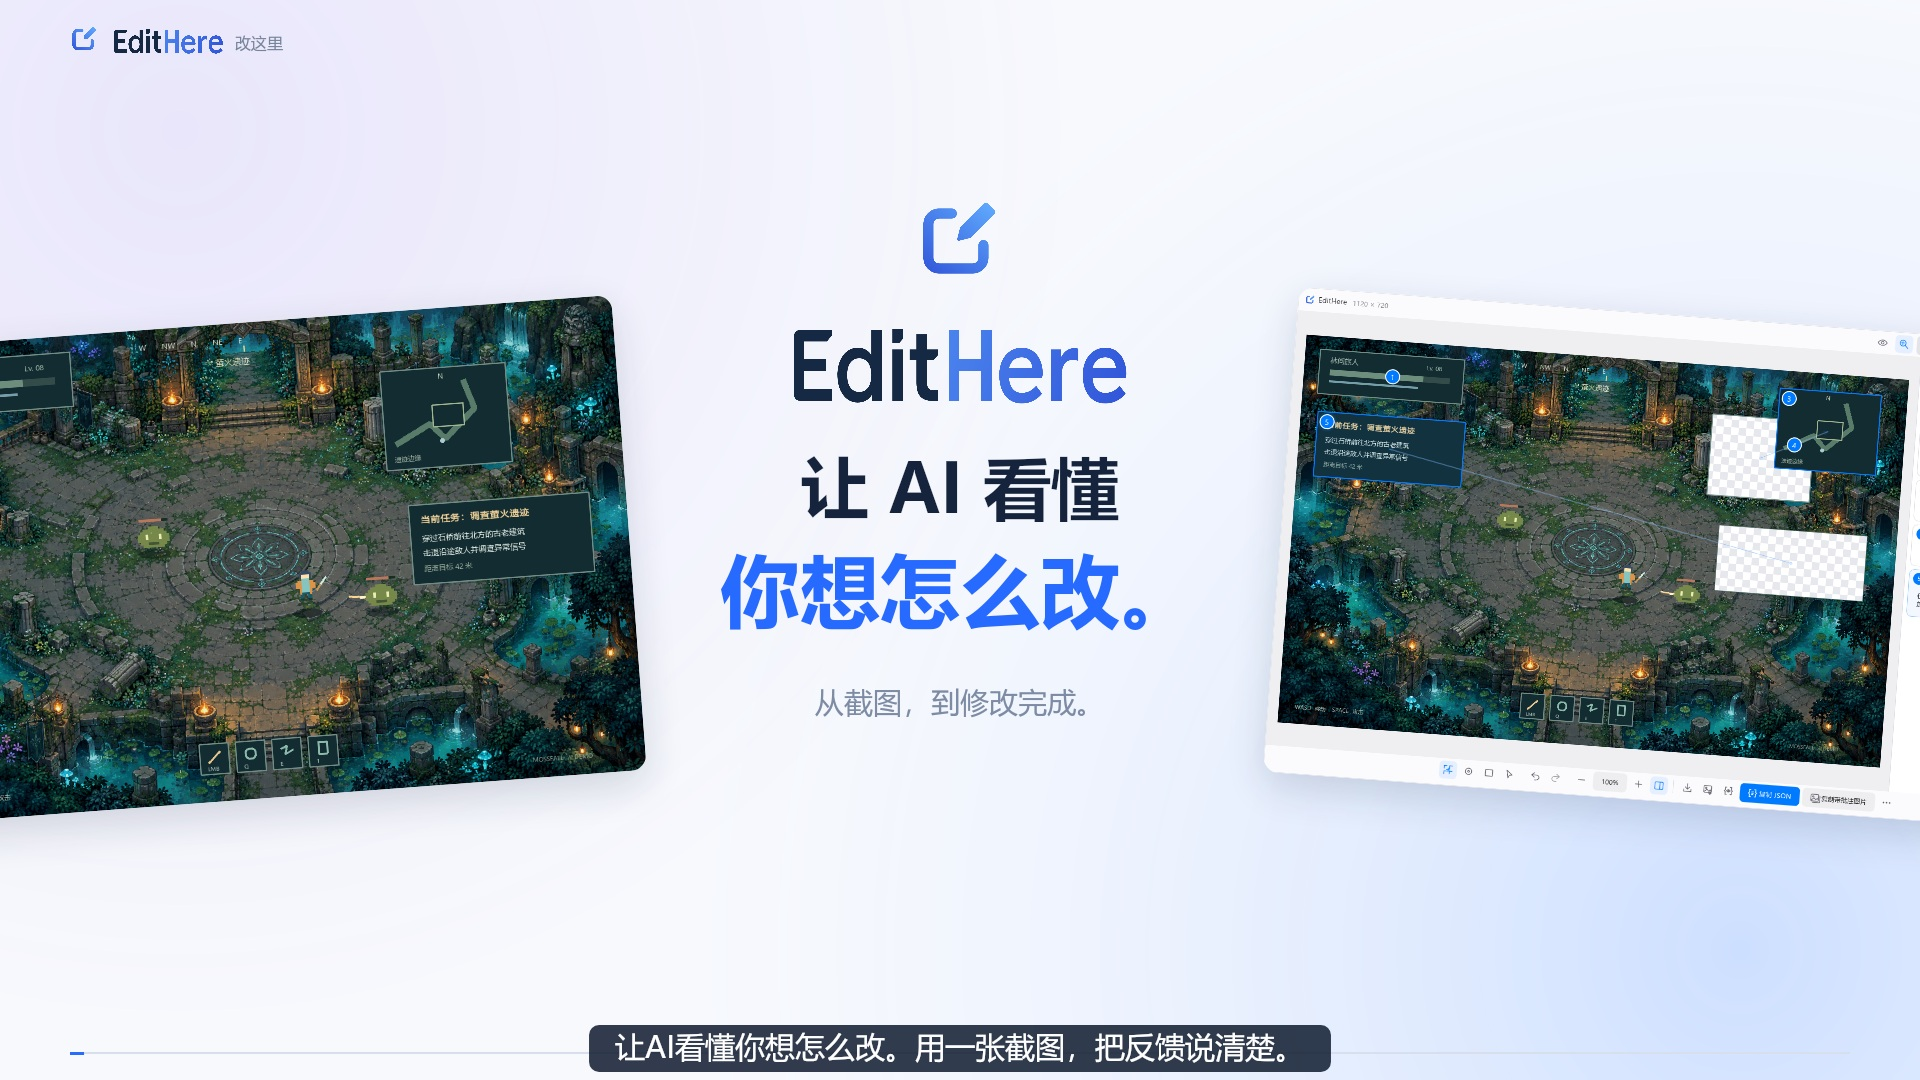
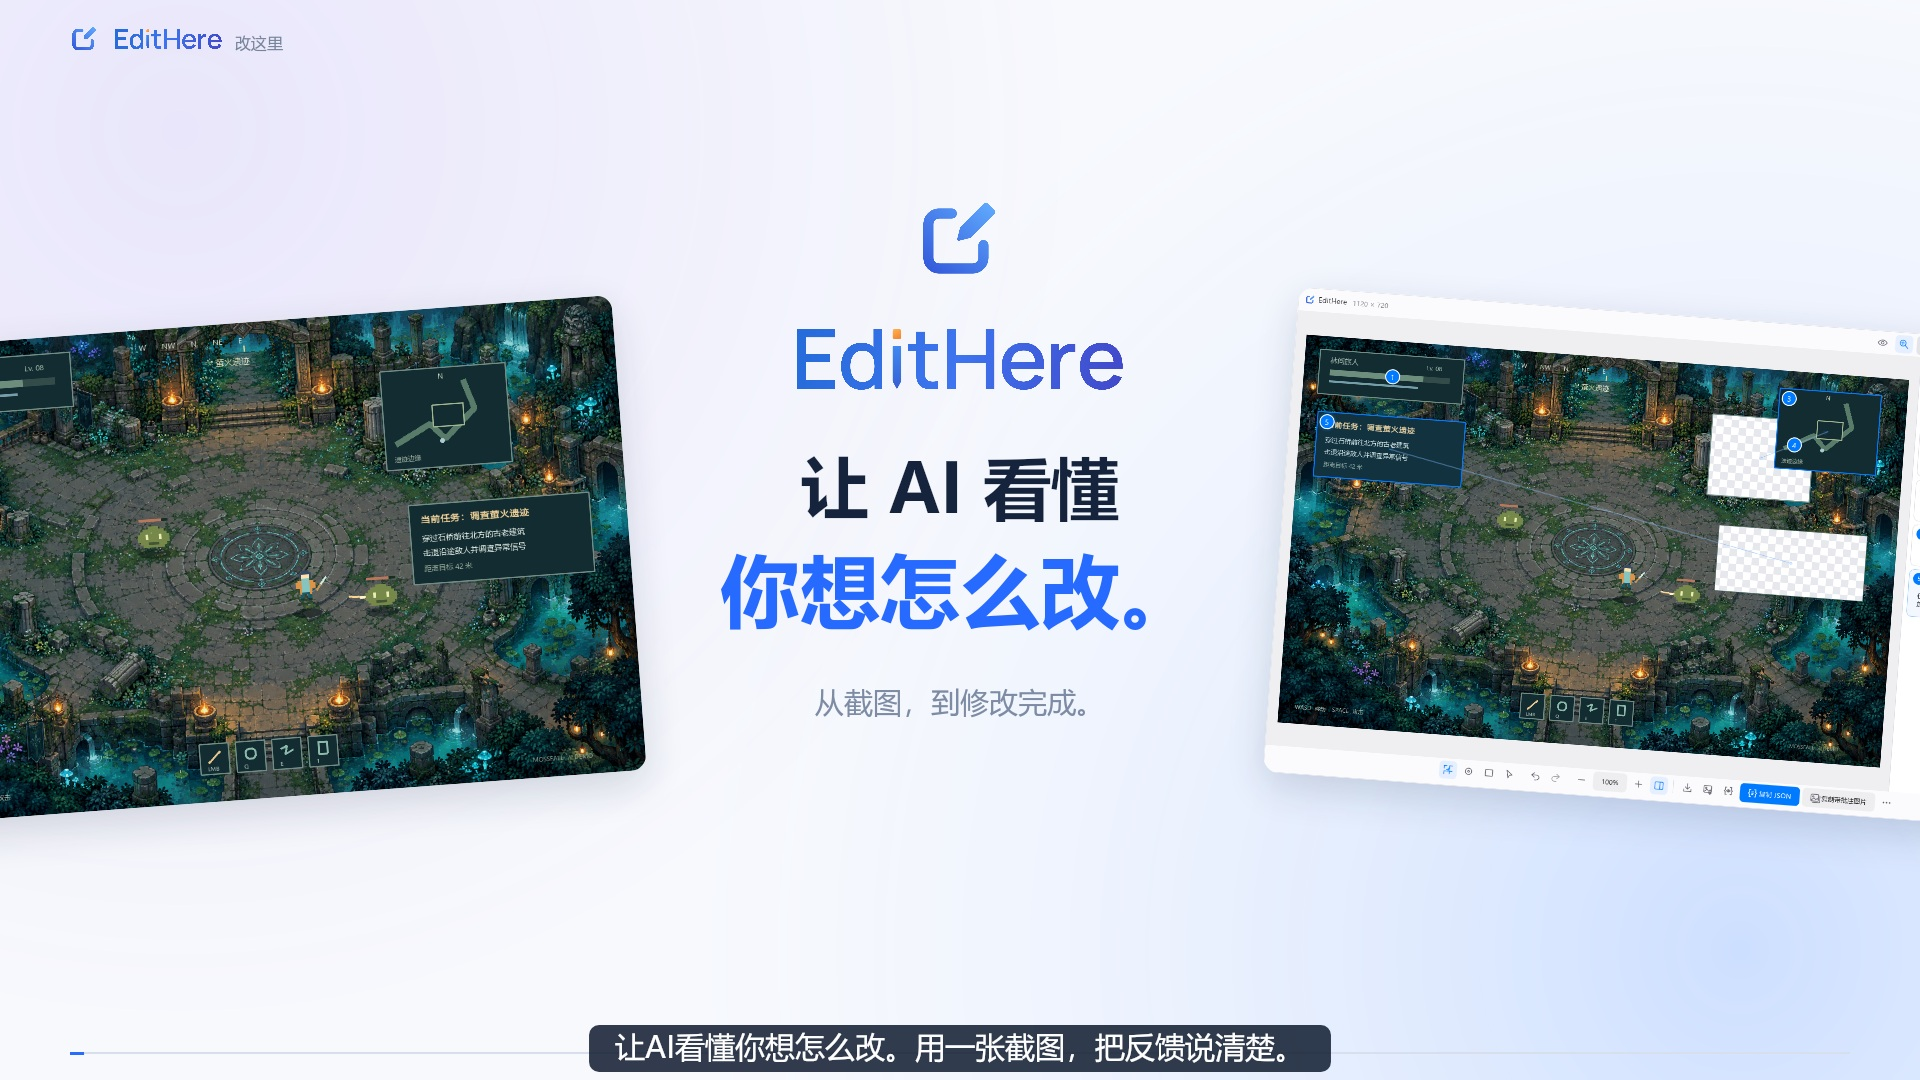
Finalize amber-cap branding and prepare release materials

Changed region(s): [[0.4062, 0.3056, 0.5938, 0.3972], [0.0625, 0.0306, 0.125, 0.0611]]

diff --git a/scripts/verify-refined-video.py b/scripts/verify-refined-video.py
@@ -1,12 +1,18 @@
 from pathlib import Path
-import hashlib, json, subprocess, sys
+import argparse, hashlib, json, subprocess, sys
 import cv2
 import numpy as np
 from PIL import Image, ImageDraw, ImageFont
-root, out = (Path(x).resolve() for x in sys.argv[1:3])
+parser = argparse.ArgumentParser(description='Verify the rendered introduction, web video and Agent chapter.')
+parser.add_argument('root', type=Path)
+parser.add_argument('output', type=Path)
+parser.add_argument('--variant', choices=['refined', 'A1'], default='refined')
+args = parser.parse_args()
+root, out = args.root.resolve(), args.output.resolve()
+variant = args.variant
 ff = root / '.cache/promo-video-deps/imageio_ffmpeg/binaries/ffmpeg-win-x86_64-v7.1.exe'
-files = ['EditHere-introduction-refined-1080p.mp4', 'EditHere-introduction-refined-web.mp4', 'EditHere-agent-chapter-refined-1080p.mp4']
-report = {'durationSeconds':246, 'agentStartsAt':183.1, 'wordmarks':'original SVG paths, no font dependency', 'music':'new original score with rebuilt clean narration', 'files':{}}
+files = [f'EditHere-introduction-{variant}-1080p.mp4', f'EditHere-introduction-{variant}-web.mp4', f'EditHere-agent-chapter-{variant}-1080p.mp4']
+report = {'durationSeconds':246, 'agentStartsAt':183.1, 'wordmarks':('A1 amber-cap wordmark based on Manrope outlines' if variant=='A1' else 'Previous outlined wordmark'), 'music':'Existing original score and narration mix reused unchanged', 'files':{}}
 for name in files:
     p=out/name
     result=subprocess.run([str(ff),'-v','error','-i',str(p),'-f','null','-'],capture_output=True,text=True)
@@ -32,8 +38,8 @@ for t in [17.5,34.0,133.5,206.0]:
     assert error<3.0,(t,error)
     report['nativeFootageChecks'].append({'time':t,'meanPixelDifference':round(error,3)})
 cap.release();old.release()
-report['audio']=json.loads((out/'EditHere-introduction-refined-1080p.audio-verification.json').read_text(encoding='utf8'))
+report['audio']=json.loads((out/f'EditHere-introduction-{variant}-1080p.audio-verification.json').read_text(encoding='utf8'))
 report['mix']=json.loads((out/'audio-verification.json').read_text(encoding='utf8'))
 (out/'verification.json').write_text(json.dumps(report,ensure_ascii=False,indent=2),encoding='utf8')
-(out/'SHA256SUMS-refined.txt').write_text(''.join(v['sha256']+'  '+k+'\n' for k,v in report['files'].items()),encoding='utf8')
+(out/f'SHA256SUMS-{variant}.txt').write_text(''.join(v['sha256']+'  '+k+'\n' for k,v in report['files'].items()),encoding='utf8')
 print(json.dumps({k:{'bytes':v['bytes'],'sha256':v['sha256']} for k,v in report['files'].items()},ensure_ascii=False))

diff --git a/scripts/mix-demo-audio.py b/scripts/mix-demo-audio.py
@@ -21,7 +21,7 @@ import numpy as np
 from scipy.ndimage import maximum_filter1d, gaussian_filter1d
 
 ROOT = Path(__file__).resolve().parents[1]
-DEFAULT_MEDIA = Path('C:/Users/InGing/.codex/visualizations/2026/09/12/01a0955e-ff46-76d0-be3b-61dab9a71caa')
+DEFAULT_MEDIA = ROOT / 'artifacts'
 SR = 48000
 DURATION = 246.0
 

diff --git a/docs/USER-GUIDE.md b/docs/USER-GUIDE.md
@@ -6,13 +6,15 @@
 
 ## 运行
 
-首次更名升级请从[发行页](https://github.com/Inginnng/EditHere/releases/tag/v0.8.20)直接下载新包，先从托盘退出旧版。原设置和 `.helpdesign` 项目继续兼容。如果开机启动提示旧路径，保持自启勾选并保存即可刷新，无需先关再开。在新程序中保存一次项目会更新原 `.helpdesign` 文件关联。旧版的自动更新检查可能不识别改名后的地址。
+首次更名升级请从[发行页](https://github.com/Inginnng/EditHere/releases/tag/v0.8.21)直接下载新包，先从托盘退出旧版。原设置和 `.helpdesign` 项目继续兼容。如果开机启动提示旧路径，保持自启勾选并保存即可刷新，无需先关再开。在新程序中保存一次项目会更新原 `.helpdesign` 文件关联。旧版的自动更新检查可能不识别改名后的地址。
 
-Windows 推荐使用[安装器](https://github.com/Inginnng/EditHere/releases/download/v0.8.20/EditHere-0.8.20-win-x64-setup.exe)（构建产物：`dist/EditHere-0.8.20-win-x64-setup.exe`）。默认安装到 `%LOCALAPPDATA%\Programs\EditHere`，仅安装给当前用户，无需管理员权限。安装器创建开始菜单和卸载入口，登记 `.helpdesign` 项目关联；组件页可选择登录启动、加入 PATH 与桌面快捷方式。新安装默认勾选登录启动和 PATH；升级时根据已有当前用户启动登记保留启动选项。安装完成后重新打开终端与 AI 工具，才能读取新 PATH。
+Windows 推荐使用[安装器](https://github.com/Inginnng/EditHere/releases/download/v0.8.21/EditHere-0.8.21-win-x64-setup.exe)（构建产物：`dist/EditHere-0.8.21-win-x64-setup.exe`）。默认安装到 `%LOCALAPPDATA%\Programs\EditHere`，仅安装给当前用户，无需管理员权限。安装器创建开始菜单和卸载入口，登记 `.helpdesign` 项目关联；组件页可选择登录启动、加入 PATH 与桌面快捷方式。新安装默认勾选登录启动和 PATH；升级时根据已有当前用户启动登记保留启动选项。安装完成后重新打开终端与 AI 工具，才能读取新 PATH。
 
-Windows [便携包](https://github.com/Inginnng/EditHere/releases/download/v0.8.20/EditHere-0.8.20-win-x64.zip)：`dist/EditHere-0.8.20-win-x64.zip`。完整解压并运行 `EditHere.exe`，保留同目录 DLL 和插件文件夹；无需安装 Qt、Python、Node 或 .NET。便携版不自动添加 PATH，可用完整路径运行 CLI。
+Windows [便携包](https://github.com/Inginnng/EditHere/releases/download/v0.8.21/EditHere-0.8.21-win-x64.zip)：`dist/EditHere-0.8.21-win-x64.zip`。完整解压并运行 `EditHere.exe`，保留同目录 DLL 和插件文件夹；无需安装 Qt、Python、Node 或 .NET。便携版不自动添加 PATH，可用完整路径运行 CLI。
 
-macOS 下载[通用版 DMG](https://github.com/Inginnng/EditHere/releases/download/v0.8.20/EditHere-0.8.20-macos-universal.dmg)，打开后将 `EditHere.app` 拖到其中的 **Applications** 入口。CLI 位于 `EditHere.app/Contents/MacOS/edithere-cli`。首次截图需屏幕录制权限，系统元素识别需辅助功能权限；尚未实机验收和 Apple 公证。
+Windows 安装包尚未进行代码签名。请从本仓库 Releases 下载，并核对[程序包 SHA-256 校验和](https://github.com/Inginnng/EditHere/releases/download/v0.8.21/SHA256SUMS.txt)。 在下载目录打开 PowerShell，可用 `Get-FileHash .\EditHere-0.8.21-win-x64-setup.exe -Algorithm SHA256` 计算安装包的哈希，与文件内同名条目比较。
+
+macOS 下载[通用版 DMG](https://github.com/Inginnng/EditHere/releases/download/v0.8.21/EditHere-0.8.21-macos-universal.dmg)，打开后将 `EditHere.app` 拖到其中的 **Applications** 入口。CLI 位于 `EditHere.app/Contents/MacOS/edithere-cli`。首次截图需屏幕录制权限，系统元素识别需辅助功能权限；尚未实机验收和 Apple 公证。
 
 Windows 可通过系统“已安装的应用”或开始菜单中的卸载入口移除安装版。卸载仅移除随包安装的文件及其登记，保留用户设置与项目；无需为更新版本删除这些数据。
 

diff --git a/assets/brand/README.md b/assets/brand/README.md
@@ -1,24 +1,24 @@
 # EditHere wordmark
 
-Original vector lettering designed to complement the existing blue editing icon. All glyphs are paths; no font file, embedding permission or runtime font dependency is needed.
+The selected identity is **A1: a blue pen-shaped i with an amber cap**. Keep the spelling `EditHere` intact. The independent blue application icon is unchanged.
 
 | Asset | Background | ViewBox | Aspect ratio |
 | --- | --- | --- | --- |
-| `edithere-wordmark.svg` | Light | `0 0 384 100` | 3.84 |
-| `edithere-wordmark-light.svg` | Dark | `0 0 384 100` | 3.84 |
-| `edithere-lockup.svg` | Light | `0 0 484 100` | 4.84 |
-| `edithere-lockup-light.svg` | Dark | `0 0 484 100` | 4.84 |
+| `edithere-wordmark.svg` | Light | `0 0 572 128` | 4.46875 |
+| `edithere-wordmark-light.svg` | Dark | `0 0 572 128` | 4.46875 |
+| `edithere-lockup.svg` | Light | `0 0 722 128` | 5.640625 |
+| `edithere-lockup-light.svg` | Dark | `0 0 722 128` | 5.640625 |
 
-The SVG canvas is transparent. SVG width/height are four times the viewBox dimensions so Canvas renderers load a crisp source for large video titles. Scale proportionally. For video corner branding, use a 28–36 px rendered height; for a title, use a 90–150 px rendered height. A 24 px sample was visually checked for legibility.
+All assets have transparent backgrounds and vector outlines. Intrinsic width/height are four times the viewBox dimensions. Preserve the aspect ratio; do not stretch the lettering. At very small sizes, use the standalone application icon.
 
-`Edit` uses deep navy `#162944` on light backgrounds and white `#F6F9FF` on dark backgrounds. `Here` has one continuous subtle blue gradient (`#4A83EE` → `#3155D9`, or `#8BC4FF` → `#66A0FF`). The cut corners on E, the i dot and t echo the editing nib; rounded bowls and optical spacing preserve a quiet, readable silhouette.
+The body uses one blue gradient (`#246BD9` → `#3E74EF` → `#4147C9`), with a lighter version for dark backgrounds. The pen cap uses the same amber gradient (`#FFB352` → `#F38A35`) in both themes. The pen has one continuous short tip; do not reintroduce a dark nib or change the cap to red.
 
-Keep the spelling `EditHere` intact. Do not stretch, apply outlines or add glows. The lockup reuses `assets/icons/helpdesign.svg` without changing its source geometry. At very small sizes use the standalone application icon.
+The letter outlines are based on **Manrope**, weight 610, with optical spacing and a redesigned i. They are not a newly designed font. The original font is available from [Google Fonts](https://github.com/google/fonts/tree/main/ofl/manrope); its SIL Open Font License is preserved in [Manrope-OFL.txt](Manrope-OFL.txt). No font installation is needed to display these SVGs. The lockup reuses `assets/icons/helpdesign.svg` without changing that icon's geometry.
 
-To regenerate assets and previews using the existing local video dependency installation:
+The four checked-in SVG files are the source of truth. To create transparent PNG exports and a light/dark preview using the local video dependency installation:
 
 ```powershell
 node assets/brand/render-preview.mjs <preview-output-directory>
 ```
 
-The renderer uses the repository's existing `@napi-rs/canvas` installation and Segoe UI for preview captions only. Distributed SVGs have no font dependency. Existing project licensing applies.
+The renderer reads the SVGs without rewriting them. It uses the repository's existing `@napi-rs/canvas` installation and Segoe UI only for preview captions.
